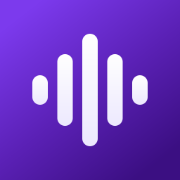
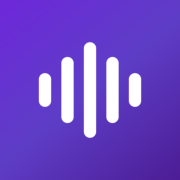
feat(theme,mobile): switch primary/secondary UI to GM3 Expressive Purple & borderless lock-screen artwork

diff --git a/css/gm3-color-tokens.css b/css/gm3-color-tokens.css
@@ -3,15 +3,15 @@
    Raw hex literals live EXCLUSIVELY here; all component CSS uses var(--md-sys-color-*). */
 
 :root {
-  /* Canonical GM3 System Tokens (Light Mode) */
-  --md-sys-color-primary: #0E57D0;
+  /* Canonical GM3 System Tokens (Light Mode — Expressive Purple) */
+  --md-sys-color-primary: #5E3DC6;
   --md-sys-color-on-primary: #FFFFFF;
-  --md-sys-color-primary-container: #D3E3FD;
-  --md-sys-color-on-primary-container: #0842A1;
-  --md-sys-color-secondary: #01639C;
+  --md-sys-color-primary-container: #EADDFF;
+  --md-sys-color-on-primary-container: #21005D;
+  --md-sys-color-secondary: #6A4C9C;
   --md-sys-color-on-secondary: #FFFFFF;
-  --md-sys-color-secondary-container: #C1E7FF;
-  --md-sys-color-on-secondary-container: #004A76;
+  --md-sys-color-secondary-container: #E8DEF8;
+  --md-sys-color-on-secondary-container: #261447;
   --md-sys-color-tertiary: #146C2E;
   --md-sys-color-on-tertiary: #FFFFFF;
   --md-sys-color-tertiary-container: #C4EED1;
@@ -34,8 +34,8 @@
   --md-sys-color-scrim: #000000;
   --md-sys-color-inverse-surface: #303030;
   --md-sys-color-inverse-on-surface: #F2F2F2;
-  --md-sys-color-inverse-primary: #A7C7FA;
-  --md-sys-color-surface-tint: #6991D6;
+  --md-sys-color-inverse-primary: #D0BCFF;
+  --md-sys-color-surface-tint: #5E3DC6;
   --md-sys-color-surface-dim: #D4DBE4;
   --md-sys-color-surface-bright: #FFFFFF;
 
@@ -47,14 +47,14 @@
   --md-sys-color-surface-container-highest: #DDE3E9;
 
   /* Fixed Accent Tokens */
-  --md-sys-color-primary-fixed: #D3E3FD;
-  --md-sys-color-on-primary-fixed: #031E49;
-  --md-sys-color-primary-fixed-dim: #A7C7FA;
-  --md-sys-color-on-primary-fixed-variant: #0842A1;
-  --md-sys-color-secondary-fixed: #C1E7FF;
-  --md-sys-color-on-secondary-fixed: #011D36;
-  --md-sys-color-secondary-fixed-dim: #80CFFF;
-  --md-sys-color-on-secondary-fixed-variant: #004A76;
+  --md-sys-color-primary-fixed: #EADDFF;
+  --md-sys-color-on-primary-fixed: #21005D;
+  --md-sys-color-primary-fixed-dim: #D0BCFF;
+  --md-sys-color-on-primary-fixed-variant: #4F378B;
+  --md-sys-color-secondary-fixed: #E8DEF8;
+  --md-sys-color-on-secondary-fixed: #261447;
+  --md-sys-color-secondary-fixed-dim: #C8B6FF;
+  --md-sys-color-on-secondary-fixed-variant: #4A386B;
   --md-sys-color-tertiary-fixed: #C4EED1;
   --md-sys-color-on-tertiary-fixed: #052712;
   --md-sys-color-tertiary-fixed-dim: #6DD58C;
@@ -64,9 +64,9 @@
   --md-sys-color-violet-accent: #6D28D9;
   --md-sys-color-indigo-wash: #EDE9FE;
   --md-sys-color-on-indigo-wash: #3B0764;
-  --md-sys-color-custom-tonal-bg: #D0F2F5;
-  --md-sys-color-custom-tonal-text: #052A2D;
-  --md-sys-color-custom-tonal-hover-bg: #BCECF0;
+  --md-sys-color-custom-tonal-bg: #EDE9FE;
+  --md-sys-color-custom-tonal-text: #3B0764;
+  --md-sys-color-custom-tonal-hover-bg: #DDD6FE;
   --md-sys-color-star-active: #D97706;
   --md-sys-color-star-container: #FEF3C7;
 
@@ -151,16 +151,16 @@
   --color-surface-container-highest: var(--md-sys-color-surface-container-highest);
 }
 
-/* Canonical GM3 System Tokens (Obsidian Dark Mode — billtribble.com palette) */
+/* Canonical GM3 System Tokens (Obsidian Dark Mode — Expressive Purple) */
 [data-theme='dark'] {
-  --md-sys-color-primary: #A7C7FA;
-  --md-sys-color-on-primary: #072E70;
-  --md-sys-color-primary-container: #0842A1;
-  --md-sys-color-on-primary-container: #D3E3FD;
-  --md-sys-color-secondary: #80CFFF;
-  --md-sys-color-on-secondary: #003355;
-  --md-sys-color-secondary-container: #004A77;
-  --md-sys-color-on-secondary-container: #C1E7FF;
+  --md-sys-color-primary: #D0BCFF;
+  --md-sys-color-on-primary: #381E72;
+  --md-sys-color-primary-container: #4F378B;
+  --md-sys-color-on-primary-container: #EADDFF;
+  --md-sys-color-secondary: #C8B6FF;
+  --md-sys-color-on-secondary: #2E1860;
+  --md-sys-color-secondary-container: #46346B;
+  --md-sys-color-on-secondary-container: #EFE5FF;
   --md-sys-color-tertiary: #6DD58C;
   --md-sys-color-on-tertiary: #0A3818;
   --md-sys-color-tertiary-container: #125223;
@@ -181,8 +181,8 @@
   --md-sys-color-scrim: #000000;
   --md-sys-color-inverse-surface: #E8E9EF;
   --md-sys-color-inverse-on-surface: #121215;
-  --md-sys-color-inverse-primary: #0E57D0;
-  --md-sys-color-surface-tint: #A7C7FA;
+  --md-sys-color-inverse-primary: #5E3DC6;
+  --md-sys-color-surface-tint: #D0BCFF;
   --md-sys-color-surface-dim: #0D0D10;
   --md-sys-color-surface-bright: #34353D;
 
@@ -194,14 +194,14 @@
   --md-sys-color-surface-container-highest: #32333E;
 
   /* Fixed Accent Tokens */
-  --md-sys-color-primary-fixed: #D3E3FD;
-  --md-sys-color-on-primary-fixed: #031E49;
-  --md-sys-color-primary-fixed-dim: #A7C7FA;
-  --md-sys-color-on-primary-fixed-variant: #072E70;
-  --md-sys-color-secondary-fixed: #C1E7FF;
-  --md-sys-color-on-secondary-fixed: #011D36;
-  --md-sys-color-secondary-fixed-dim: #80CFFF;
-  --md-sys-color-on-secondary-fixed-variant: #003355;
+  --md-sys-color-primary-fixed: #EADDFF;
+  --md-sys-color-on-primary-fixed: #21005D;
+  --md-sys-color-primary-fixed-dim: #D0BCFF;
+  --md-sys-color-on-primary-fixed-variant: #381E72;
+  --md-sys-color-secondary-fixed: #E8DEF8;
+  --md-sys-color-on-secondary-fixed: #261447;
+  --md-sys-color-secondary-fixed-dim: #C8B6FF;
+  --md-sys-color-on-secondary-fixed-variant: #2E1860;
   --md-sys-color-tertiary-fixed: #C4EED1;
   --md-sys-color-on-tertiary-fixed: #052712;
   --md-sys-color-tertiary-fixed-dim: #6DD58C;
@@ -211,9 +211,9 @@
   --md-sys-color-violet-accent: #7437D2;
   --md-sys-color-indigo-wash: #400B83;
   --md-sys-color-on-indigo-wash: #E9D5FF;
-  --md-sys-color-custom-tonal-bg: #0F2B2E;
-  --md-sys-color-custom-tonal-text: #9EF3FB;
-  --md-sys-color-custom-tonal-hover-bg: #163E42;
+  --md-sys-color-custom-tonal-bg: #3F2E63;
+  --md-sys-color-custom-tonal-text: #EADDFF;
+  --md-sys-color-custom-tonal-hover-bg: #4D3978;
   --md-sys-color-star-active: #FCD34D;
   --md-sys-color-star-container: rgba(130, 91, 0, 0.42);
 

diff --git a/index.html b/index.html
@@ -5,18 +5,18 @@
   <meta name="viewport" content="width=device-width, initial-scale=1.0" />
   <meta name="color-scheme" content="light dark" />
   <meta name="theme-color" content="#4C1D95" />
-  <link rel="icon" type="image/png" sizes="32x32" href="assets/favicon-32.png" />
-  <link rel="icon" type="image/png" sizes="64x64" href="assets/favicon-64.png" />
-  <link rel="icon" type="image/png" sizes="192x192" href="assets/media-artwork-192.png" />
-  <link rel="icon" type="image/png" sizes="512x512" href="assets/media-artwork-512.png" />
-  <link rel="apple-touch-icon" sizes="180x180" href="assets/apple-touch-icon.png" />
+  <link rel="icon" type="image/png" sizes="32x32" href="assets/favicon-32.png?v=20261125p2" />
+  <link rel="icon" type="image/png" sizes="64x64" href="assets/favicon-64.png?v=20261125p2" />
+  <link rel="icon" type="image/png" sizes="192x192" href="assets/media-artwork-192.png?v=20261125p2" />
+  <link rel="icon" type="image/png" sizes="512x512" href="assets/media-artwork-512.png?v=20261125p2" />
+  <link rel="apple-touch-icon" sizes="180x180" href="assets/apple-touch-icon.png?v=20261125p2" />
   <title>Bill Tribble Music Map</title>
   <meta name="description" content="Interactive sonic atlas and evolutionary music map of Bill Tribble's catalog from 1997 to 2026 — Vibe clusters, Energy-Wave Era timeline, and harmonic analysis." />
   <meta property="og:title" content="Bill Tribble Music Map" />
   <meta property="og:description" content="Interactive sonic atlas of Bill Tribble's music archive, releases, vibe clusters, and 1997–2026 evolution." />
   <meta property="og:type" content="website" />
   <meta property="og:url" content="https://billtribble.github.io/music-map/" />
-  <meta property="og:image" content="https://billtribble.github.io/music-map/assets/media-artwork-512.png" />
+  <meta property="og:image" content="https://billtribble.github.io/music-map/assets/media-artwork-512.png?v=20261125p2" />
   <script type="application/ld+json">
     {
       "@context": "https://schema.org",
@@ -92,11 +92,11 @@
   <link rel="preconnect" href="https://fonts.gstatic.com" crossorigin />
   <link href="https://fonts.googleapis.com/css2?family=Inter:wght@400;500;600;700&family=Syne:wght@500..800&display=swap" rel="stylesheet" />
   <link href="https://fonts.googleapis.com/css2?family=Material+Symbols+Outlined:opsz,wght,FILL,GRAD@20..48,400,0..1,0&display=block" rel="stylesheet" />
-  <link rel="stylesheet" href="css/gm3-color-tokens.css?v=20261125y" />
-  <link rel="stylesheet" href="css/app.css?v=20261125y" />
+  <link rel="stylesheet" href="css/gm3-color-tokens.css?v=20261125p2" />
+  <link rel="stylesheet" href="css/app.css?v=20261125p2" />
   <link rel="stylesheet" href="css/map.css?v=20261125zb" />
-  <link rel="stylesheet" href="css/views.css?v=20261125y" />
-  <link rel="stylesheet" href="css/theme-personal.css?v=20261125y" />
+  <link rel="stylesheet" href="css/views.css?v=20261125p2" />
+  <link rel="stylesheet" href="css/theme-personal.css?v=20261125p2" />
   <script data-goatcounter="https://billtribble-com.goatcounter.com/count" async src="https://gc.zgo.at/count.js"></script>
 </head>
 <body>
@@ -210,14 +210,14 @@
   <script src="js/events-client.js?v=20261125y"></script>
   <script src="js/audio-deck.js?v=20261125z"></script>
   <script src="js/timeline-era.js?v=20261125y"></script>
-  <script src="js/player-card.js?v=20261125zb"></script>
+  <script src="js/player-card.js?v=20261125p2"></script>
   <script src="js/map-physics.js?v=20261125y"></script>
   <script src="js/map-labels.js?v=20261125za"></script>
-  <script src="js/nodemap.js?v=20261125za"></script>
+  <script src="js/nodemap.js?v=20261125p2"></script>
   <script src="js/views-harmony.js?v=20261125y"></script>
   <script src="js/views-evolution.js?v=20261125y"></script>
   <script src="js/app.js?v=20261125y"></script>
   <script src="js/theme.js?v=20261125y"></script>
-  <script src="js/media-session.js?v=20261125z"></script>
+  <script src="js/media-session.js?v=20261125p2"></script>
 </body>
 </html>

diff --git a/js/player-card.js b/js/player-card.js
@@ -581,9 +581,9 @@
   function resolveWavePalette() {
     if (typeof document === "undefined" || typeof getComputedStyle !== "function") {
       return {
-        primary: "rgb(14, 87, 208)",
-        secondary: "rgb(1, 99, 156)",
-        secondaryContainer: "rgb(193, 231, 255)",
+        primary: "rgb(94, 61, 198)",
+        secondary: "rgb(106, 76, 156)",
+        secondaryContainer: "rgb(232, 222, 248)",
         onSurface: "rgb(31, 31, 31)",
         onSurfaceVariant: "rgb(68, 71, 70)",
         outline: "rgb(116, 119, 117)",
@@ -597,9 +597,9 @@
     const pick = (prop, fb) => (cs.getPropertyValue(prop) || "").trim() || fb;
     cachedThemeKey = themeAttr;
     cachedPalette = {
-      primary: pick("--md-sys-color-primary", "rgb(14, 87, 208)"),
-      secondary: pick("--md-sys-color-secondary", "rgb(1, 99, 156)"),
-      secondaryContainer: pick("--md-sys-color-secondary-container", "rgb(193, 231, 255)"),
+      primary: pick("--md-sys-color-primary", "rgb(94, 61, 198)"),
+      secondary: pick("--md-sys-color-secondary", "rgb(106, 76, 156)"),
+      secondaryContainer: pick("--md-sys-color-secondary-container", "rgb(232, 222, 248)"),
       onSurface: pick("--md-sys-color-on-surface", "rgb(31, 31, 31)"),
       onSurfaceVariant: pick("--md-sys-color-on-surface-variant", "rgb(68, 71, 70)"),
       outline: pick("--md-sys-color-outline", "rgb(116, 119, 117)"),

diff --git a/js/nodemap.js b/js/nodemap.js
@@ -98,7 +98,7 @@
         val("--md-sys-color-cluster-4", "#FBBF24"),
         val("--md-sys-color-cluster-7", "#FB7185"),
       ],
-      primary: val("--md-sys-color-primary", "#A7C7FA"),
+      primary: val("--md-sys-color-primary", "#D0BCFF"),
       outline: val("--md-sys-color-outline-variant", "#444746"),
       edgeLine: val("--md-sys-color-outline", "#8E9099"),
       edgeLineDark: val("--md-sys-color-on-surface-variant", "#C2C5D0"),
@@ -109,7 +109,7 @@
       bandAlt: val("--md-sys-color-surface-container", "#1C1C22"),
       bandActive: val("--md-sys-color-surface-container-high", "#262730"),
       gridLine: val("--md-sys-color-outline-variant", "#3D404A"),
-      spineGlow: val("--md-sys-color-primary-container", "#0842A1"),
+      spineGlow: val("--md-sys-color-primary-container", "#4F378B"),
     };
   }
 

diff --git a/css/app.css b/css/app.css
@@ -156,7 +156,7 @@ button:focus-visible, a:focus-visible, input:focus-visible, select:focus-visible
 
 .bar-spacer { flex: 1; min-width: 8px; }
 
-/* Connected Pill Tab Switcher (Sky Blue Selected) */
+/* Connected Pill Tab Switcher (GM3 Purple Selected) */
 .m3-pill-tabs.gm3-connected-dsp {
   display: inline-flex;
   align-items: center;
@@ -355,8 +355,8 @@ button:focus-visible, a:focus-visible, input:focus-visible, select:focus-visible
   padding: 0 14px;
   border: none;
   border-radius: 999px;
-  background: var(--md-sys-color-teal-tonal);
-  color: var(--md-sys-color-on-teal-tonal);
+  background: var(--md-sys-color-secondary-container);
+  color: var(--md-sys-color-on-secondary-container);
   font-size: 13px;
   font-weight: 600;
   transition: background 140ms var(--ease-std), color 140ms var(--ease-std);

diff --git a/js/media-session.js b/js/media-session.js
@@ -9,9 +9,9 @@
   const POSITION_THROTTLE_MS = 950;
 
   const ARTWORK_REL_SPECS = [
-    { rel: "assets/media-artwork-192.png", sizes: "192x192", type: "image/png" },
-    { rel: "assets/media-artwork-256.png", sizes: "256x256", type: "image/png" },
-    { rel: "assets/media-artwork-512.png", sizes: "512x512", type: "image/png" },
+    { rel: "assets/media-artwork-192.png?v=20261125p2", sizes: "192x192", type: "image/png" },
+    { rel: "assets/media-artwork-256.png?v=20261125p2", sizes: "256x256", type: "image/png" },
+    { rel: "assets/media-artwork-512.png?v=20261125p2", sizes: "512x512", type: "image/png" },
   ];
 
   const byId = new Map();

diff --git a/css/views.css b/css/views.css
@@ -379,8 +379,8 @@ select.era-select {
 }
 .track-btn:hover { background: var(--md-sys-color-surface-container-highest); }
 .track-btn.is-playing {
-  background: var(--md-sys-color-teal-tonal);
-  color: var(--md-sys-color-on-teal-tonal);
+  background: var(--md-sys-color-secondary-container);
+  color: var(--md-sys-color-on-secondary-container);
   font-weight: 600;
 }
 
